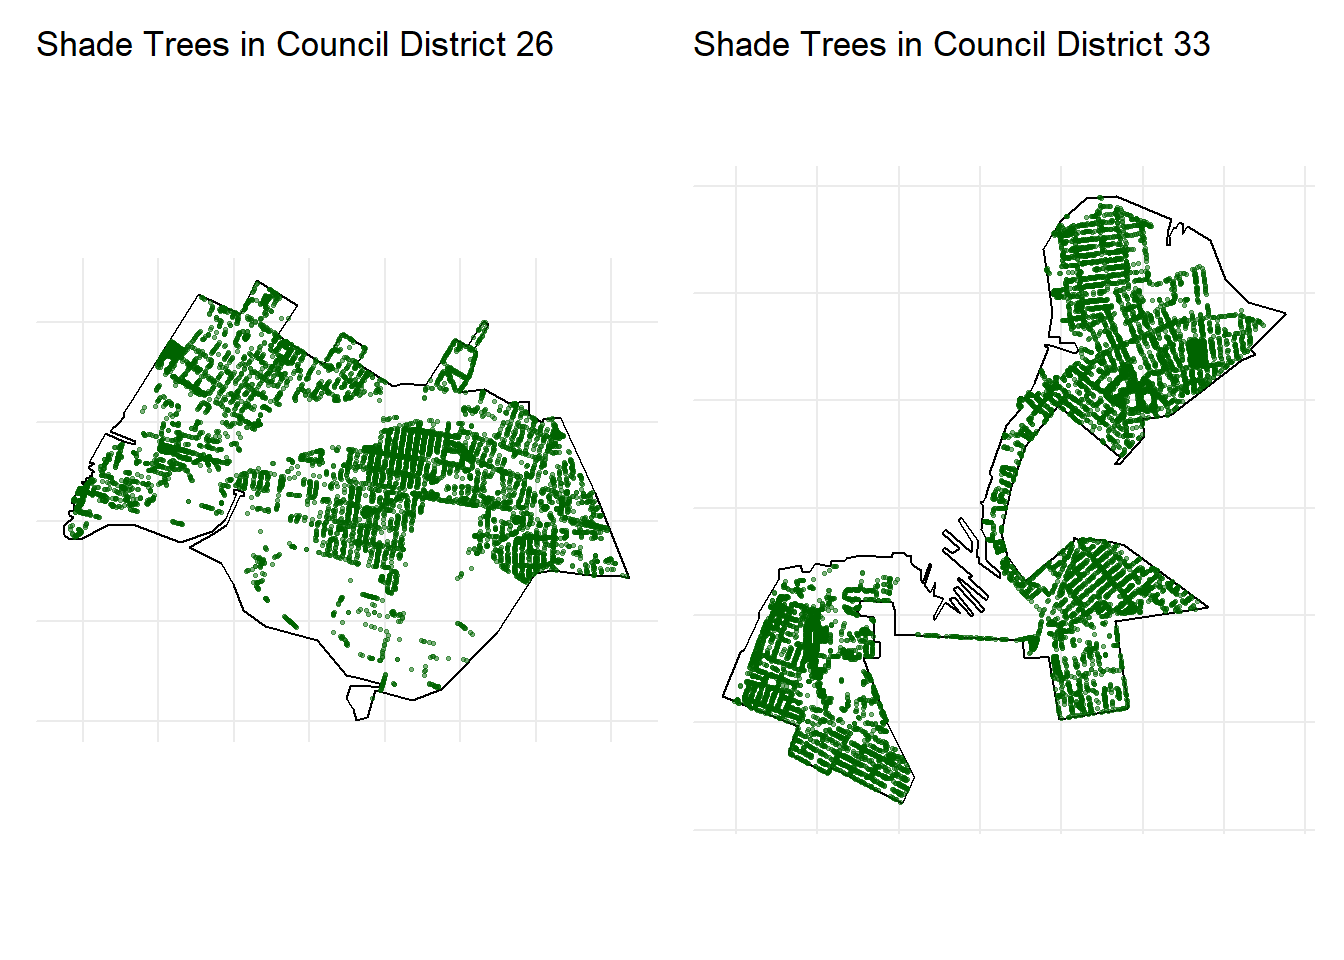
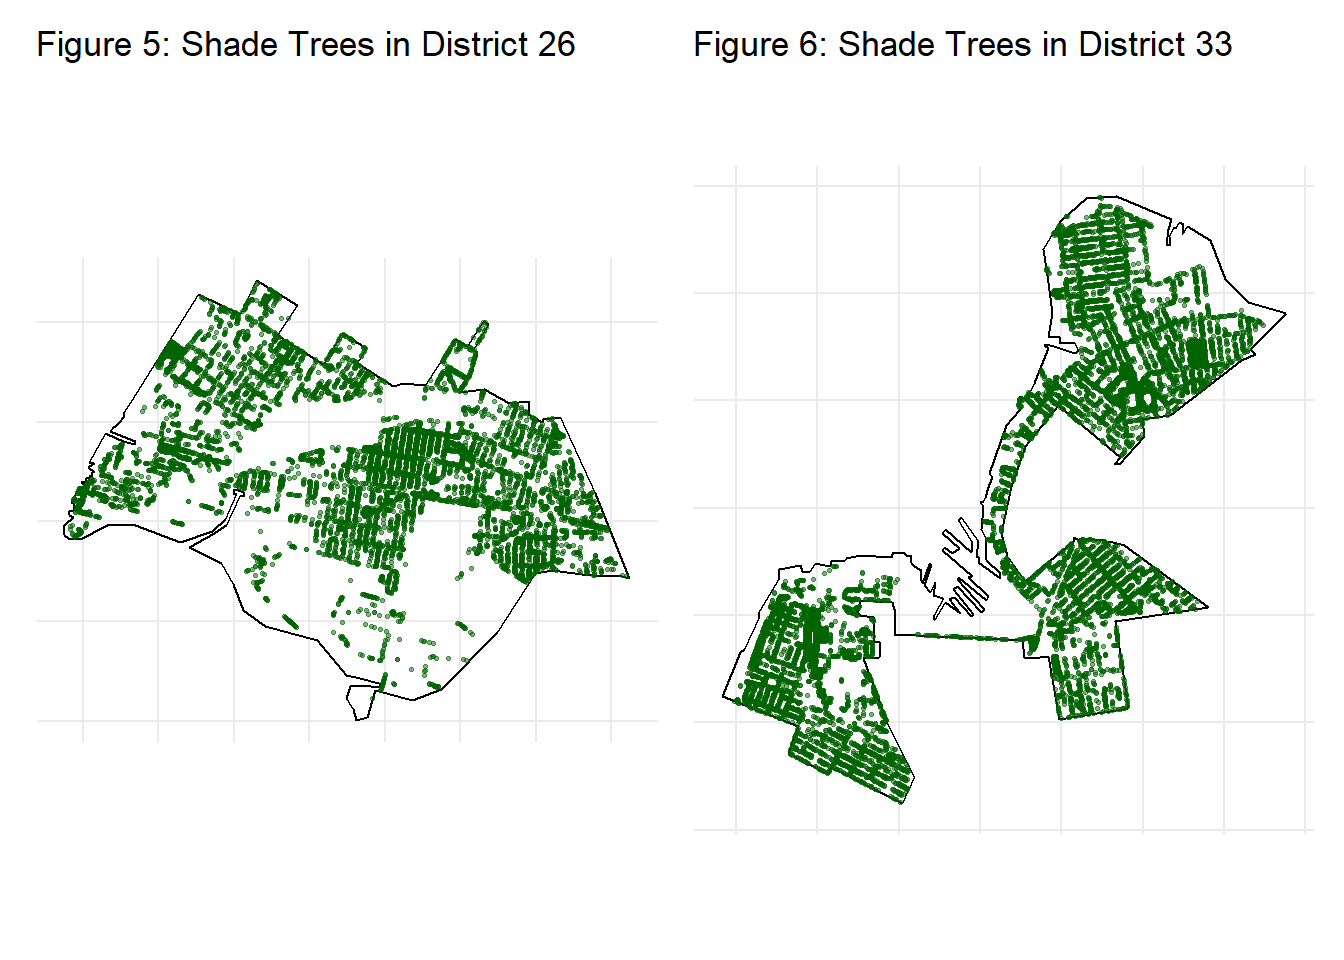
revised order of plots

Changed region(s): [[0.5, 0.0312, 0.9375, 0.0625], [0.0312, 0.0312, 0.4375, 0.0625]]

diff --git a/docs/mp03.html b/docs/mp03.html
@@ -813,7 +813,7 @@ pre > code.sourceCode > span > a:first-child::before { text-decoration: underlin
 <span id="cb13-38"><a href="#cb13-38" aria-hidden="true" tabindex="-1"></a>  <span class="fu">labs</span>(</span>
 <span id="cb13-39"><a href="#cb13-39" aria-hidden="true" tabindex="-1"></a>    <span class="at">title =</span> <span class="st">" Figure 4: District Shade Trees"</span>,</span>
 <span id="cb13-40"><a href="#cb13-40" aria-hidden="true" tabindex="-1"></a>    <span class="at">x =</span> <span class="st">"Council District"</span>,</span>
-<span id="cb13-41"><a href="#cb13-41" aria-hidden="true" tabindex="-1"></a>    <span class="at">y =</span> <span class="st">"Shade Trees per Million Sq Feet"</span>,</span>
+<span id="cb13-41"><a href="#cb13-41" aria-hidden="true" tabindex="-1"></a>    <span class="at">y =</span> <span class="st">"Shade Trees per Million Sq Feet"</span></span>
 <span id="cb13-42"><a href="#cb13-42" aria-hidden="true" tabindex="-1"></a>  )</span></code><button title="Copy to Clipboard" class="code-copy-button"><i class="bi"></i></button></pre></div>
 </details>
 <div class="cell-output-display">
@@ -868,7 +868,7 @@ pre > code.sourceCode > span > a:first-child::before { text-decoration: underlin
 <span id="cb14-37"><a href="#cb14-37" aria-hidden="true" tabindex="-1"></a>    <span class="at">axis.title =</span> <span class="fu">element_blank</span>()</span>
 <span id="cb14-38"><a href="#cb14-38" aria-hidden="true" tabindex="-1"></a>  ) <span class="sc">+</span></span>
 <span id="cb14-39"><a href="#cb14-39" aria-hidden="true" tabindex="-1"></a>  <span class="fu">labs</span>(</span>
-<span id="cb14-40"><a href="#cb14-40" aria-hidden="true" tabindex="-1"></a>    <span class="at">title =</span> <span class="st">"Shade Trees in Council District 26"</span>,</span>
+<span id="cb14-40"><a href="#cb14-40" aria-hidden="true" tabindex="-1"></a>    <span class="at">title =</span> <span class="st">"Figure 5: Shade Trees in District 26"</span>,</span>
 <span id="cb14-41"><a href="#cb14-41" aria-hidden="true" tabindex="-1"></a>  )</span>
 <span id="cb14-42"><a href="#cb14-42" aria-hidden="true" tabindex="-1"></a></span>
 <span id="cb14-43"><a href="#cb14-43" aria-hidden="true" tabindex="-1"></a><span class="co"># District 33 shade map</span></span>
@@ -893,7 +893,7 @@ pre > code.sourceCode > span > a:first-child::before { text-decoration: underlin
 <span id="cb14-62"><a href="#cb14-62" aria-hidden="true" tabindex="-1"></a>    <span class="at">axis.title =</span> <span class="fu">element_blank</span>()</span>
 <span id="cb14-63"><a href="#cb14-63" aria-hidden="true" tabindex="-1"></a>  ) <span class="sc">+</span></span>
 <span id="cb14-64"><a href="#cb14-64" aria-hidden="true" tabindex="-1"></a>  <span class="fu">labs</span>(</span>
-<span id="cb14-65"><a href="#cb14-65" aria-hidden="true" tabindex="-1"></a>    <span class="at">title =</span> <span class="st">"Shade Trees in Council District 33"</span>,</span>
+<span id="cb14-65"><a href="#cb14-65" aria-hidden="true" tabindex="-1"></a>    <span class="at">title =</span> <span class="st">"Figure 6: Shade Trees in District 33"</span>,</span>
 <span id="cb14-66"><a href="#cb14-66" aria-hidden="true" tabindex="-1"></a>  )</span>
 <span id="cb14-67"><a href="#cb14-67" aria-hidden="true" tabindex="-1"></a></span>
 <span id="cb14-68"><a href="#cb14-68" aria-hidden="true" tabindex="-1"></a>p26 <span class="sc">+</span> p33 <span class="sc">+</span> <span class="fu">plot_layout</span>(<span class="at">widths =</span> <span class="fu">c</span>(<span class="dv">1</span>, <span class="dv">1</span>))</span></code><button title="Copy to Clipboard" class="code-copy-button"><i class="bi"></i></button></pre></div>
@@ -928,29 +928,27 @@ pre > code.sourceCode > span > a:first-child::before { text-decoration: underlin
 <span id="cb15-16"><a href="#cb15-16" aria-hidden="true" tabindex="-1"></a>  <span class="fu">filter</span>(CounDist <span class="sc">%in%</span> <span class="fu">c</span>(<span class="dv">1</span>, <span class="dv">26</span>, <span class="dv">33</span>, <span class="dv">38</span>)) <span class="sc">|&gt;</span></span>
 <span id="cb15-17"><a href="#cb15-17" aria-hidden="true" tabindex="-1"></a>  <span class="fu">arrange</span>(CounDist)</span>
 <span id="cb15-18"><a href="#cb15-18" aria-hidden="true" tabindex="-1"></a></span>
-<span id="cb15-19"><a href="#cb15-19" aria-hidden="true" tabindex="-1"></a><span class="fu">invisible</span>(stumps_focus)</span>
-<span id="cb15-20"><a href="#cb15-20" aria-hidden="true" tabindex="-1"></a></span>
-<span id="cb15-21"><a href="#cb15-21" aria-hidden="true" tabindex="-1"></a><span class="co"># Bar chart</span></span>
-<span id="cb15-22"><a href="#cb15-22" aria-hidden="true" tabindex="-1"></a><span class="fu">ggplot</span>(</span>
-<span id="cb15-23"><a href="#cb15-23" aria-hidden="true" tabindex="-1"></a>  stumps_focus,</span>
-<span id="cb15-24"><a href="#cb15-24" aria-hidden="true" tabindex="-1"></a>  <span class="fu">aes</span>(</span>
-<span id="cb15-25"><a href="#cb15-25" aria-hidden="true" tabindex="-1"></a>    <span class="at">x =</span> <span class="fu">factor</span>(CounDist),</span>
-<span id="cb15-26"><a href="#cb15-26" aria-hidden="true" tabindex="-1"></a>    <span class="at">y =</span> stump_fraction,</span>
-<span id="cb15-27"><a href="#cb15-27" aria-hidden="true" tabindex="-1"></a>    <span class="at">fill =</span> CounDist <span class="sc">==</span> <span class="dv">26</span></span>
-<span id="cb15-28"><a href="#cb15-28" aria-hidden="true" tabindex="-1"></a>  )</span>
-<span id="cb15-29"><a href="#cb15-29" aria-hidden="true" tabindex="-1"></a>) <span class="sc">+</span> <span class="co"># highlight District 26</span></span>
-<span id="cb15-30"><a href="#cb15-30" aria-hidden="true" tabindex="-1"></a>  <span class="fu">geom_col</span>(<span class="at">alpha =</span> <span class="fl">0.8</span>) <span class="sc">+</span></span>
-<span id="cb15-31"><a href="#cb15-31" aria-hidden="true" tabindex="-1"></a>  <span class="fu">scale_fill_manual</span>(</span>
-<span id="cb15-32"><a href="#cb15-32" aria-hidden="true" tabindex="-1"></a>    <span class="at">values =</span> <span class="fu">c</span>(<span class="st">"TRUE"</span> <span class="ot">=</span> <span class="st">"darkgreen"</span>, <span class="st">"FALSE"</span> <span class="ot">=</span> <span class="st">"grey70"</span>),</span>
-<span id="cb15-33"><a href="#cb15-33" aria-hidden="true" tabindex="-1"></a>    <span class="at">guide  =</span> <span class="st">"none"</span></span>
-<span id="cb15-34"><a href="#cb15-34" aria-hidden="true" tabindex="-1"></a>  ) <span class="sc">+</span></span>
-<span id="cb15-35"><a href="#cb15-35" aria-hidden="true" tabindex="-1"></a>  <span class="fu">scale_y_continuous</span>(<span class="at">labels =</span> scales<span class="sc">::</span><span class="fu">percent_format</span>(<span class="at">accuracy =</span> <span class="dv">1</span>)) <span class="sc">+</span></span>
-<span id="cb15-36"><a href="#cb15-36" aria-hidden="true" tabindex="-1"></a>  <span class="fu">theme_minimal</span>() <span class="sc">+</span></span>
-<span id="cb15-37"><a href="#cb15-37" aria-hidden="true" tabindex="-1"></a>  <span class="fu">labs</span>(</span>
-<span id="cb15-38"><a href="#cb15-38" aria-hidden="true" tabindex="-1"></a>    <span class="at">title    =</span> <span class="st">"Figure 5: Stumps as a Share of All Tree Sites"</span>,</span>
-<span id="cb15-39"><a href="#cb15-39" aria-hidden="true" tabindex="-1"></a>    <span class="at">x        =</span> <span class="st">"Council District"</span>,</span>
-<span id="cb15-40"><a href="#cb15-40" aria-hidden="true" tabindex="-1"></a>    <span class="at">y        =</span> <span class="st">"Stumps / Total Sites"</span></span>
-<span id="cb15-41"><a href="#cb15-41" aria-hidden="true" tabindex="-1"></a>  )</span></code><button title="Copy to Clipboard" class="code-copy-button"><i class="bi"></i></button></pre></div>
+<span id="cb15-19"><a href="#cb15-19" aria-hidden="true" tabindex="-1"></a><span class="co"># Bar chart</span></span>
+<span id="cb15-20"><a href="#cb15-20" aria-hidden="true" tabindex="-1"></a><span class="fu">ggplot</span>(</span>
+<span id="cb15-21"><a href="#cb15-21" aria-hidden="true" tabindex="-1"></a>  stumps_focus,</span>
+<span id="cb15-22"><a href="#cb15-22" aria-hidden="true" tabindex="-1"></a>  <span class="fu">aes</span>(</span>
+<span id="cb15-23"><a href="#cb15-23" aria-hidden="true" tabindex="-1"></a>    <span class="at">x =</span> <span class="fu">factor</span>(CounDist),</span>
+<span id="cb15-24"><a href="#cb15-24" aria-hidden="true" tabindex="-1"></a>    <span class="at">y =</span> stump_fraction,</span>
+<span id="cb15-25"><a href="#cb15-25" aria-hidden="true" tabindex="-1"></a>    <span class="at">fill =</span> CounDist <span class="sc">==</span> <span class="dv">26</span></span>
+<span id="cb15-26"><a href="#cb15-26" aria-hidden="true" tabindex="-1"></a>  )</span>
+<span id="cb15-27"><a href="#cb15-27" aria-hidden="true" tabindex="-1"></a>) <span class="sc">+</span> <span class="co"># highlight District 26</span></span>
+<span id="cb15-28"><a href="#cb15-28" aria-hidden="true" tabindex="-1"></a>  <span class="fu">geom_col</span>(<span class="at">alpha =</span> <span class="fl">0.8</span>) <span class="sc">+</span></span>
+<span id="cb15-29"><a href="#cb15-29" aria-hidden="true" tabindex="-1"></a>  <span class="fu">scale_fill_manual</span>(</span>
+<span id="cb15-30"><a href="#cb15-30" aria-hidden="true" tabindex="-1"></a>    <span class="at">values =</span> <span class="fu">c</span>(<span class="st">"TRUE"</span> <span class="ot">=</span> <span class="st">"darkgreen"</span>, <span class="st">"FALSE"</span> <span class="ot">=</span> <span class="st">"grey70"</span>),</span>
+<span id="cb15-31"><a href="#cb15-31" aria-hidden="true" tabindex="-1"></a>    <span class="at">guide  =</span> <span class="st">"none"</span></span>
+<span id="cb15-32"><a href="#cb15-32" aria-hidden="true" tabindex="-1"></a>  ) <span class="sc">+</span></span>
+<span id="cb15-33"><a href="#cb15-33" aria-hidden="true" tabindex="-1"></a>  <span class="fu">scale_y_continuous</span>(<span class="at">labels =</span> scales<span class="sc">::</span><span class="fu">percent_format</span>(<span class="at">accuracy =</span> <span class="dv">1</span>)) <span class="sc">+</span></span>
+<span id="cb15-34"><a href="#cb15-34" aria-hidden="true" tabindex="-1"></a>  <span class="fu">theme_minimal</span>() <span class="sc">+</span></span>
+<span id="cb15-35"><a href="#cb15-35" aria-hidden="true" tabindex="-1"></a>  <span class="fu">labs</span>(</span>
+<span id="cb15-36"><a href="#cb15-36" aria-hidden="true" tabindex="-1"></a>    <span class="at">title    =</span> <span class="st">"Figure 7: Stumps as a Share of All Tree Sites"</span>,</span>
+<span id="cb15-37"><a href="#cb15-37" aria-hidden="true" tabindex="-1"></a>    <span class="at">x        =</span> <span class="st">"Council District"</span>,</span>
+<span id="cb15-38"><a href="#cb15-38" aria-hidden="true" tabindex="-1"></a>    <span class="at">y        =</span> <span class="st">"Stumps / Total Sites"</span></span>
+<span id="cb15-39"><a href="#cb15-39" aria-hidden="true" tabindex="-1"></a>  )</span></code><button title="Copy to Clipboard" class="code-copy-button"><i class="bi"></i></button></pre></div>
 </details>
 <div class="cell-output-display">
 <div>
